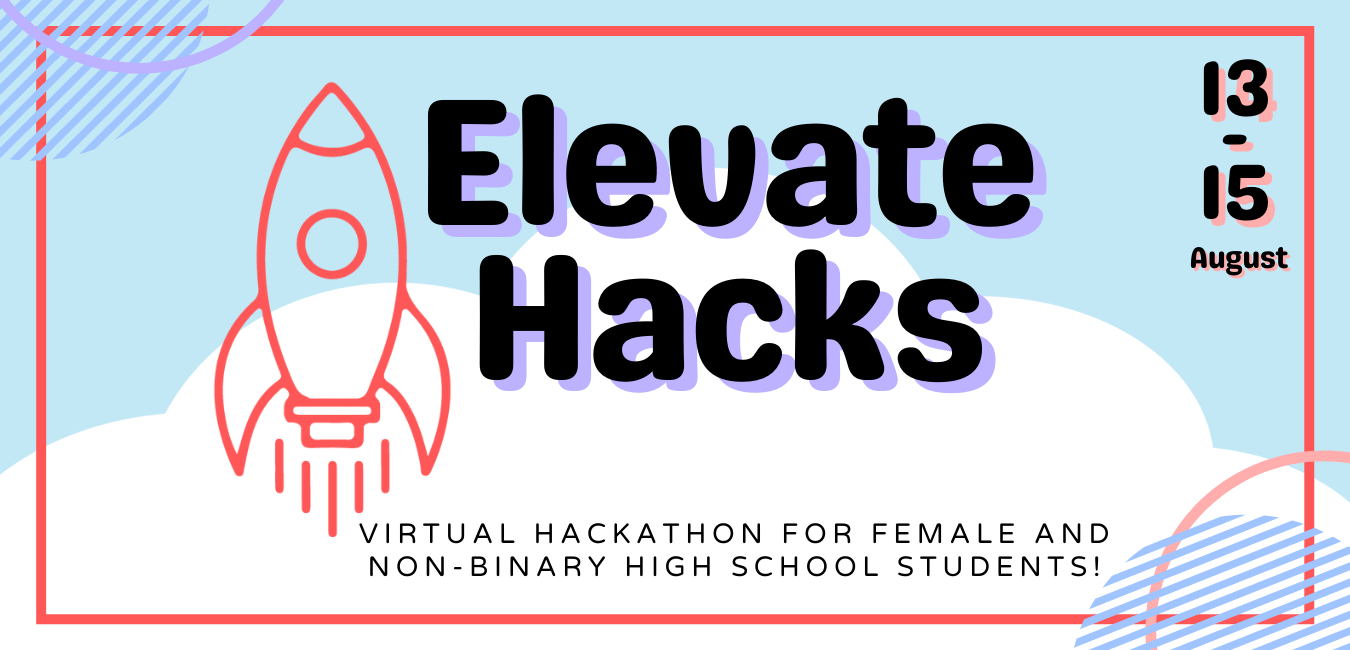
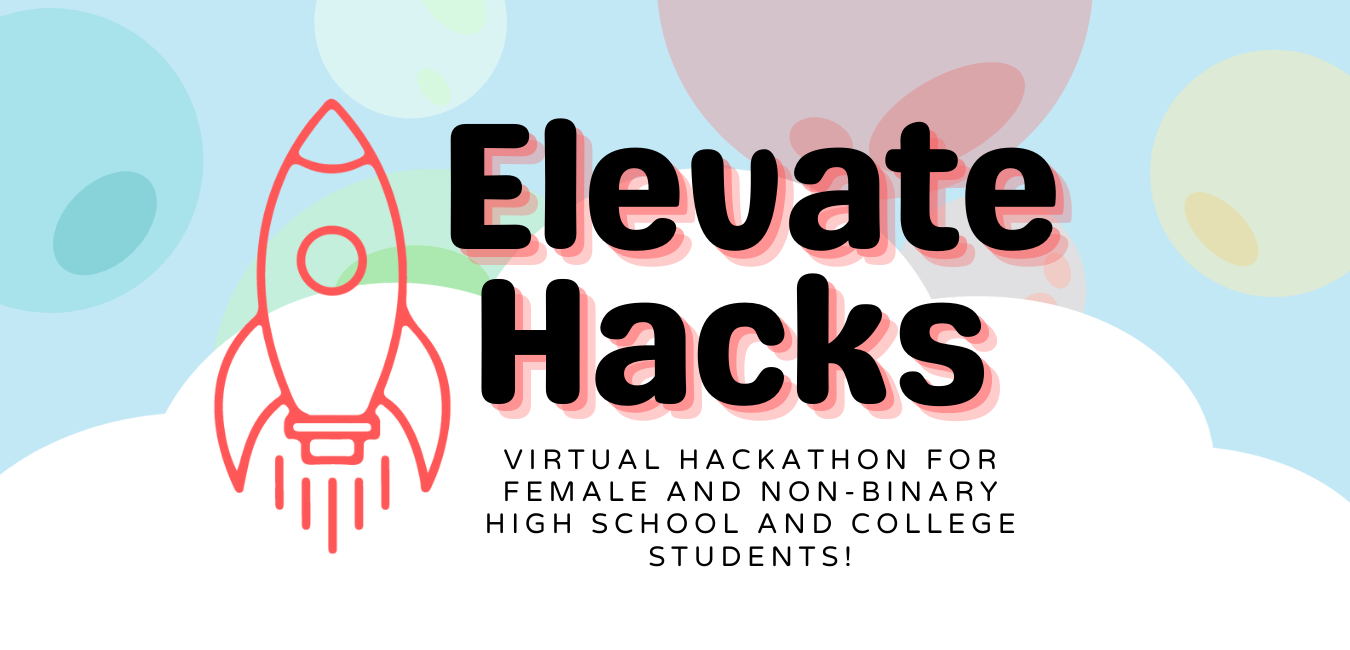
college

diff --git a/elevatehacks.html b/elevatehacks.html
@@ -92,7 +92,7 @@
             </div>
             <div class="about-right">
                 <p class="about-text">Elevate Hacks is an international virtual hackathon for female identifying and
-                    non-binary high school students coming from August 13th to 15th by <a class="link"
+                    non-binary students coming from August 13th to 15th by <a class="link"
                         href="https://elevatetech.codes/index.html" target="_blank" >Elevate Tech</a>. We welcome
                     students all with a variety of different skills and backgrounds from all over the world to come
                     together and attend engaging workshops, learn new technical skills, and create impactful projects.
@@ -288,7 +288,7 @@
                 <details class="faq-question-card">
                     <summary class="faq-question">Who can attend?</summary>
                     <div class="faq-answer">
-                        We welcome female and non-binary high school students from anywhere in the world to attend.
+                        We welcome female and non-binary high school and college (undergraduate) students from anywhere in the world to attend.
                     </div>
                 </details>
                 <details class="faq-question-card">

diff --git a/index.html b/index.html
@@ -121,7 +121,7 @@
                 <p class="init-date">August 13th to 15th</p>
                 <a href="elevatehacks.html"><img src="images/elevatehacks-poster.png" alt="ElevateHacks Poster"
                         class="init-pic"></img></a>
-                <p class="init-descrip">A virtual hackathon for female and non-binary high school students</p>
+                <p class="init-descrip">A virtual hackathon for female and non-binary high school and college students</p>
             </div>
             <div class="init-box" id="app-dev-camp">
                 <h3 class="init-title">App Development Camp</h3>
